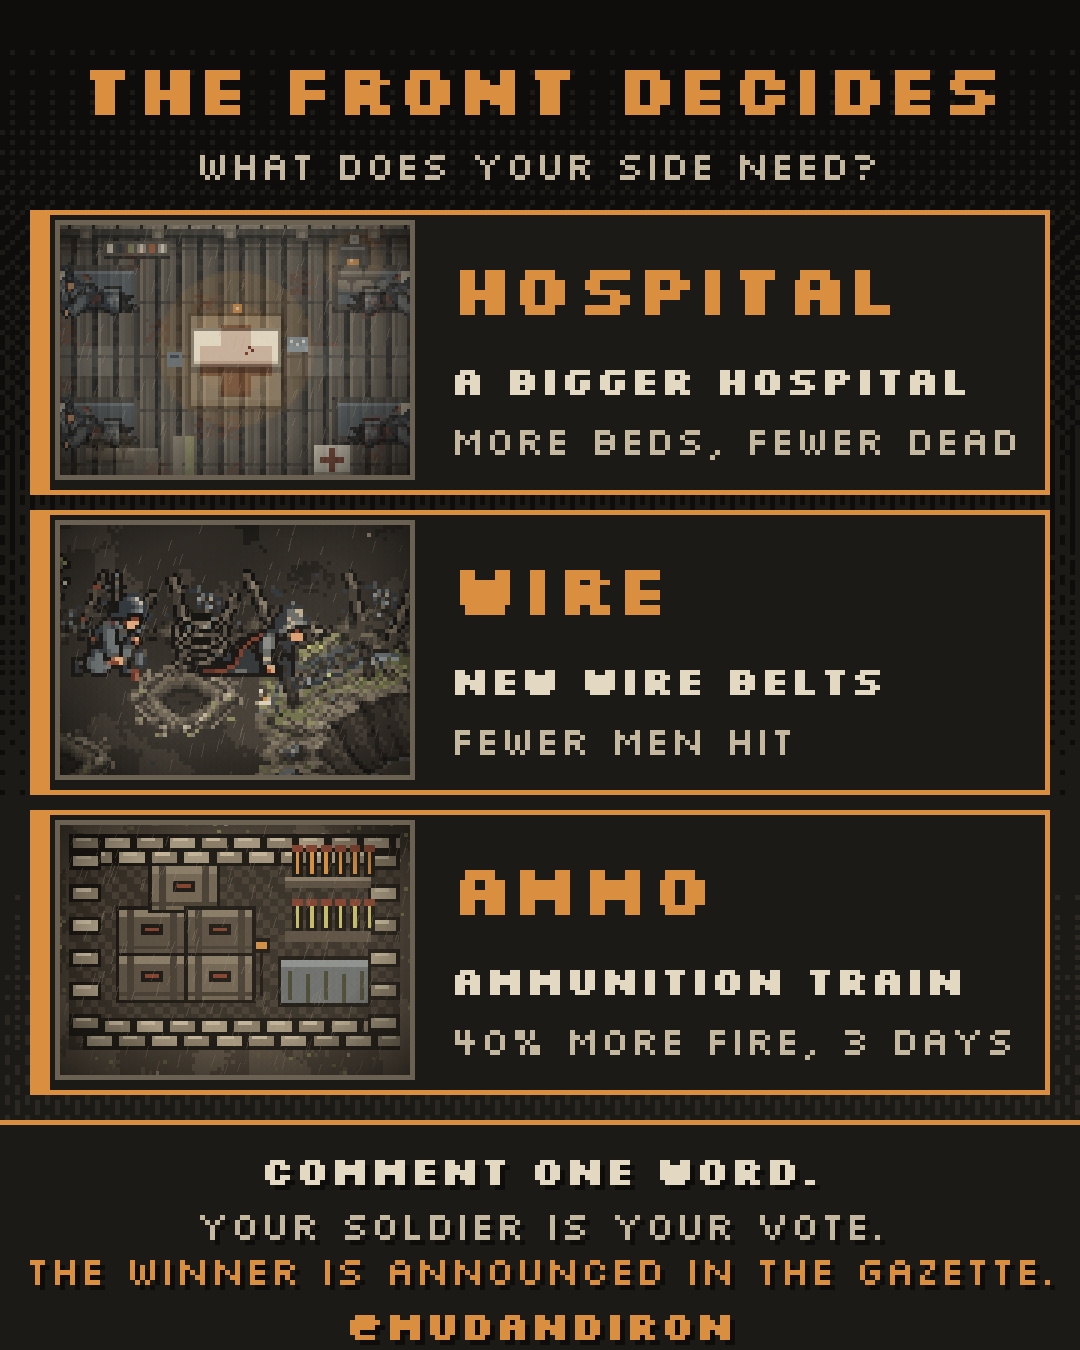
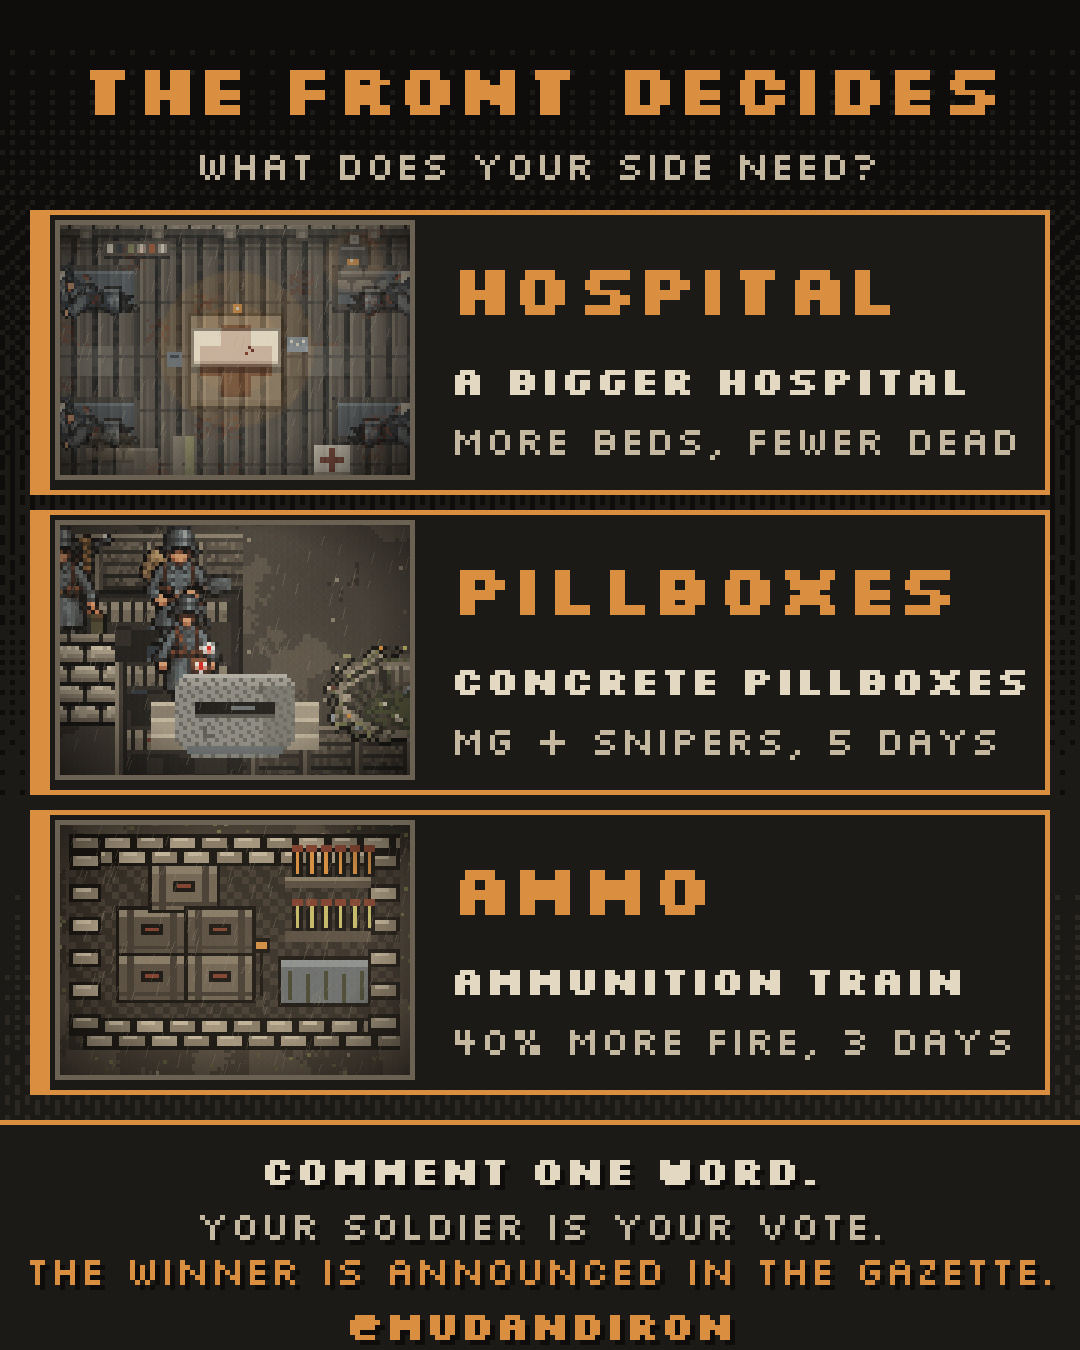
Hlasování: PILLBOXES místo WIRE (betonové bunkry na mapě, MG a odstřelovači střílí víc)
Claude-Session: https://claude.ai/code/session_01VWWMSwJGFZow7tBNcmKaEZ

diff --git a/web/src/orders-fx.js b/web/src/orders-fx.js
@@ -2,6 +2,7 @@
 //  • DUGOUTS  – hluboké kryty proti bombardování: u zálohy strany stojí pytlové kryty s trámovým vchodem a hlínou (jen po dobu rozkazu),
 //  • DOCTOR   – u obvaziště / nemocnice se mezi raněnými prochází lékař v bílém plášti (sprite zdravotníka, červený kříž nad hlavou).
 //  • AMMO    – sklad munice v týlu vedle obvaziště: bedny, police s náboji, plachta a pytlový val (mechanika zvyšuje palbu vlastních střelců),
+//  • PILLBOXES – betonové kulometné bunkry v přední linii (nápad Hegemonie z Rady fronty): kulometčíci a odstřelovači střílí víc (rozkaz `fire`).
 // V dev režimu jde vyzkoušet bez hlasování: /?orders=0:DUGOUTS,0:DOCTOR  (strana:heslo).
 import { Container, Graphics, Sprite, Texture } from 'pixi.js';
 
@@ -32,6 +33,30 @@ function shelterTexture(faction = 0, seed = 1) {
   return Texture.from(c);
 }
 
+
+// betonový kulometný bunkr: šestiúhelníkový blok s průzorem, pytle po stranách, proužek v barvě strany
+function pillboxTexture(faction = 0, seed = 1) {
+  const W = 44, H = 24, c = document.createElement('canvas');
+  c.width = W; c.height = H;
+  const g = c.getContext('2d');
+  const px = (x, y, w, h, col) => { g.fillStyle = `#${col.toString(16).padStart(6, '0')}`; g.fillRect(x, y, w, h); };
+  const CON = [0x8a8a84, 0x76766f, 0x9c9a92, 0x63625c];
+  // pytle po stranách
+  for (let i = 0; i < 3; i++) { px(1, 9 + i * 4, 8, 4, i % 2 ? C.bone : C.sand); px(W - 9, 9 + i * 4, 8, 4, i % 2 ? C.sand : C.bone); px(1, 9 + i * 4, 8, 1, C.pale); px(W - 9, 9 + i * 4, 8, 1, C.pale); }
+  // betonový blok se zkosenými rohy
+  for (let y = 2; y < H - 1; y++) {
+    const cut = Math.max(0, 4 - y, y - (H - 6));
+    for (let x = 7 + cut; x < W - 7 - cut; x++) px(x, y, 1, 1, CON[((x * 5 + y * 3 + seed) % 7 < 2) ? 3 : y < 5 ? 2 : (x > W / 2 + 6 ? 1 : 0)]);
+  }
+  px(9, 2, W - 18, 1, 0xb4b2a9); // horní hrana na světle
+  // průzor pro kulomet
+  px(12, 9, W - 24, 3, C.ink); px(12, 12, W - 24, 1, 0x4a4a45);
+  px(W / 2 - 1, 10, 6, 1, C.steel); // hlaveň v průzoru
+  // praskliny a proužek strany
+  px(14, 15, 1, 3, 0x55554f); px(15, 17, 2, 1, 0x55554f); px(W - 16, 5, 1, 2, 0x55554f);
+  px(10, H - 4, W - 20, 2, faction === 0 ? C.steel : 0x6f7148);
+  return Texture.from(c);
+}
 
 // sklad munice: pytlový val, hromady beden se značkami, police s mosaznými náboji, plachta, lucerna
 function ammoTexture(faction = 0) {
@@ -122,9 +147,28 @@ export function initOrderFx({ world, anchor, roster, map, tex, anims, hospitals,
     s.x = Math.round(site.x + 150); s.y = Math.round(site.y);
     layer.addChild(s);
   });
+
+  const pbTop = new Container(); // bunkry před valem (nad pytli)
+  world.addChild(pbTop);
+  // --- PILLBOXES: betonové bunkry v přední linii před stanovišti, ~jeden na 10 stanovišť otevřené části fronty ---
+  theme.factions.forEach((_, f) => {
+    if (!has('PILLBOXES', f)) return;
+    const toEnemy = map.front[f] < map.front[1 - f] ? 1 : -1;
+    const slots = map.slots[f].filter((sl) => sl.line === 'front' && sl.x >= openX0 && sl.x <= openX1).sort((a, b) => a.x - b.x);
+    let lastX = -999;
+    for (const sl of slots) {
+      if (sl.x - lastX < 300) continue;
+      lastX = sl.x;
+      const s = new Sprite(pillboxTexture(f, Math.round(sl.x) % 7));
+      s.anchor.set(0.5, 0.5);
+      s.x = Math.round(sl.x + 14); s.y = Math.round(sl.y + toEnemy * 18);
+      // bunkr před valem: u strany, která míří dolů, leží před pytli (nad nimi); u druhé ho zakryjí vojáci v zákopu
+      (toEnemy > 0 ? pbTop : layer).addChild(s);
+    }
+  });
   let raised = false;
   return {
-    shelters: layer.children,
+    shelters: [...layer.children, ...pbTop.children],
     docs,
     update(now, view) {
       if (!raised && docs.length) { raised = true; world.setChildIndex(top, world.children.length - 1); } // lékař nad vojáky

diff --git a/marketing/make_vote.py b/marketing/make_vote.py
@@ -1,6 +1,6 @@
 """Post hlasování o rozkazech (1080×1350): jedno hlasování, tři volby pro všechny (DUGOUTS, DOCTOR, AMMO), každá s ilustrací ze hry.
 Použití: python marketing/make_vote.py  → marketing/promo/vote_orders_1.jpg
-        python marketing/make_vote.py build → marketing/promo/vote_build_1.jpg (HOSPITAL / WIRE / AMMO, 15. 11.)
+        python marketing/make_vote.py build → marketing/promo/vote_build_1.jpg (HOSPITAL / PILLBOXES / AMMO, 15. 11.)
 """
 import math
 import os
@@ -23,9 +23,9 @@ VARIANTS = {
         ("DOCTOR", "A SURGEON ARRIVES", "FEWER DEAD, HEALS FAST"),
         ("AMMO", "AMMUNITION TRAIN", "SHOOTERS FIRE 40% MORE"),
     ]),
-    "build": ("vote_build_1.jpg", "WHAT DOES YOUR SIDE NEED?", ("hospital", "wire", "ammo"), [
+    "build": ("vote_build_1.jpg", "WHAT DOES YOUR SIDE NEED?", ("hospital", "pillbox", "ammo"), [
         ("HOSPITAL", "A BIGGER HOSPITAL", "MORE BEDS, FEWER DEAD"),
-        ("WIRE", "NEW WIRE BELTS", "FEWER MEN HIT"),
+        ("PILLBOXES", "CONCRETE PILLBOXES", "MG + SNIPERS, 5 DAYS"),
         ("AMMO", "AMMUNITION TRAIN", "40% MORE FIRE, 3 DAYS"),
     ]),
 }

diff --git a/docs/MECHANICS.md b/docs/MECHANICS.md
@@ -378,3 +378,8 @@ Uživatel: „musí se umírat, je blbost, že by nikoho nezastřelili k smrti; 
 - (15. 11.) Nasycení palby vypnuto (`roles.saturation` 0, uživatel: víc střelců = větší palebná síla). Simulace padlí H ~24 / 14 / 10, C ~7 / 11 / 11,5.
 - (15. 11. odpoledne, uživatel: „je to dlouhé, rychleji ozdravovat nebo zabíjet“) Těžce raněný mimo lůžko se může zahojit už po 1 noci (`care.heavy.minDays` 1) a po 2 nocích se rozhodne (`maxDays` 2): zahojí se s šancí 0,3 + 0,6 × péče mediků (Hegemonie 46 % → ~58 %, Concord 100 % → 90 %), jinak zemře. Nikdo neleží týden.
   Dnešní noc Hegemonie (zkouška): z 24 na nosítkách 12 zahojeno, 10 padlo, 1 zůstává. Simulace padlí H ~22 / 5 / 4, C ~7 / 11 / 11,5.
+
+### 2026-11-15: návrh hlasování HOSPITAL / PILLBOXES / AMMO (NÁVRH, čeká na schválení postu)
+- HOSPITAL: druhý nemocniční dugout (`build: dugout`, +4 lůžka, +4 nosítka, natrvalo).
+- PILLBOXES (nápad Hegemonie z Rady fronty): betonové bunkry v přední linii, kulometčíci palba ×1,6, odstřelovači ×1,3, 5 dní; na mapě betonové bunkry před valem (`web/src/orders-fx.js`, dev `/?orders=0:PILLBOXES`).
+- AMMO: palba ×1,4, 3 dny. Každá strana hlasuje zvlášť (`perFaction`). Návrh: `marketing/drafts/vote-build.draft.json`, obrázek `python marketing/make_vote.py build`.
